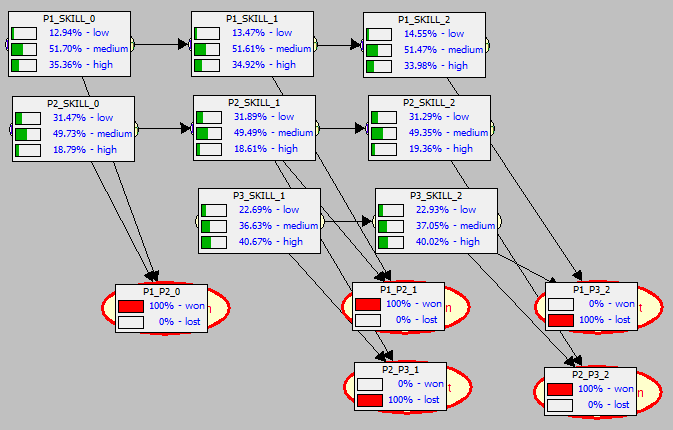
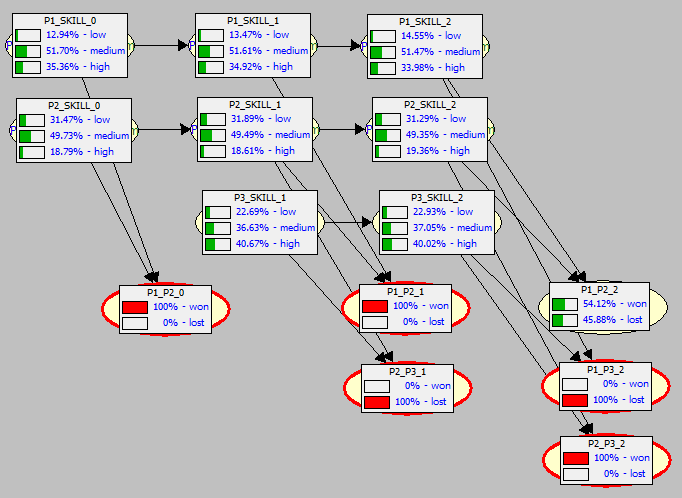
Updating README file.

diff --git a/README.md b/README.md
@@ -145,13 +145,14 @@ There are two types of variables in this network:
   </tbody>
 </table>
 
-Tennis network is time sliced by weeks. Within a single time slice, tennis matches are represented by Match Outcome variables, whereas players are represented by Player Skill variables. 
+Tennis network is time sliced by weeks. Within a single time slice, tennis matches are represented by Match Outcome variables, whereas players are characterised by Player Skill variables. 
 For better understanding of this structure, look at diagram below, which reflects the following sequence of tennis matches.
 
-	player_id_1, player_id_2, winner_1_won (won,lost), time
+	player_id_1, player_id_2, player_1_won (won,lost), time
 	1,2,won,0
 	1,2,won,1
 	2,3,lost,1
+	1,2,?,2 //This game has not been played yet and we would like to infer the likelihood of the it's outcome. 
 	1,3,lost,2
 	2,3,won,2
 
